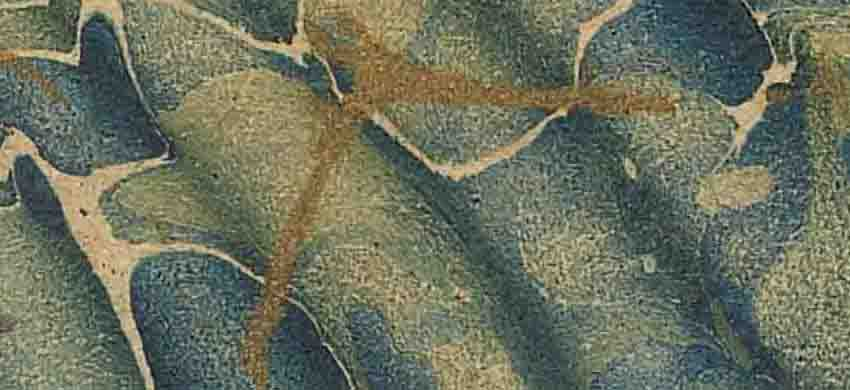
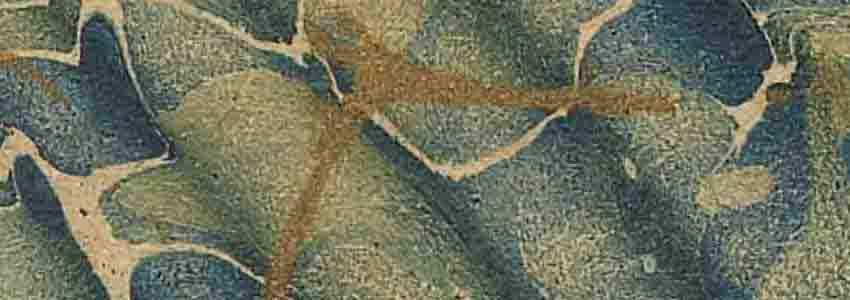
Image tweaks and cheats for home page

diff --git a/site/src/@ndlib/gatsby-theme-marble/components/Pages/IndexPage/index.js b/site/src/@ndlib/gatsby-theme-marble/components/Pages/IndexPage/index.js
@@ -12,6 +12,14 @@ import MultiColumn from 'components/Shared/MultiColumn'
 import Column from 'components/Shared/Column'
 import { useTranslation } from 'react-i18next'
 import findMetadata from 'utils/findMetadata'
+import dateImage from 'assets/images/date.jpg'
+import formatImage from 'assets/images/format.jpg'
+import campuslocationImage from 'assets/images/campus_location.jpg'
+import allImage from 'assets/images/all_items.jpg'
+import dateImageNext from 'assets/images/date.webp'
+import formatImageNext from 'assets/images/format.webp'
+import campuslocationImageNext from 'assets/images/campus_location.webp'
+import allImageNext from 'assets/images/all_items.webp'
 
 const IndexPage = ({ location }) => {
   const { t } = useTranslation()
@@ -51,10 +59,6 @@ const IndexPage = ({ location }) => {
     `,
   )
   const { nodes } = allMarbleItem
-  const dateImage = 'https://image-iiif.library.nd.edu/iiif/2/2015.045.003%2F2015_045_003-v0002/full/125,/0/default.jpg'
-  const formatImage = 'https://image-iiif.library.nd.edu/iiif/2/2017.025.667%2F2017_025_667-v0015/full/125,/0/default.jpg'
-  const campuslocationImage = 'https://image-iiif.library.nd.edu/iiif/2/MSNMN5004_EAD%2FMSN-MN_5004-04.a.150/full/125,/0/default.jpg'
-  const allImage = 'https://image-iiif.library.nd.edu/iiif/2/1976.057%2F1976_057-v0001/full/125,/0/default.jpg'
 
   return (
     <React.Fragment>
@@ -67,6 +71,7 @@ const IndexPage = ({ location }) => {
             label='Date'
             target='/browse?scrollto=date'
             image={dateImage}
+            imageNext={dateImageNext}
           />
         </Column>
         <Column>
@@ -74,6 +79,7 @@ const IndexPage = ({ location }) => {
             label='Format'
             target='/browse?scrollto=format'
             image={formatImage}
+            imageNext={formatImageNext}
           />
         </Column>
         <Column>
@@ -81,6 +87,7 @@ const IndexPage = ({ location }) => {
             label='Campus Location'
             target='/browse?scrollto=location'
             image={campuslocationImage}
+            imageNext={campuslocationImageNext}
           />
         </Column>
         <Column>
@@ -88,6 +95,7 @@ const IndexPage = ({ location }) => {
             label='All Items'
             target='/search?q='
             image={allImage}
+            imageNext={allImageNext}
           />
         </Column>
       </MultiColumn>

diff --git a/@ndlib/gatsby-theme-marble/src/components/Shared/BrowseBar/index.js b/@ndlib/gatsby-theme-marble/src/components/Shared/BrowseBar/index.js
@@ -2,22 +2,26 @@
 import PropTypes from 'prop-types'
 import { jsx } from 'theme-ui'
 import Link from 'components/Internal/Link'
-import Image from 'components/Shared/Image'
 import sx from './sx'
 
 const BrowseBar = ({
   label,
   target,
   image,
+  imageNext,
 }) => {
   return (
     <Link to={target} sx={sx.browseSection}>
-      <div sx={sx.browseImage}>
-        <Image
-          src={image || null}
-          alt=''
+      <picture sx={sx.browseImage}>
+        <source
+          srcSet={imageNext}
+          type='image/webp'
         />
-      </div>
+        <img
+          alt='label'
+          src={image}
+        />
+      </picture>
       <div sx={sx.label}>
         {label}
       </div>
@@ -29,6 +33,7 @@ BrowseBar.propTypes = {
   target: PropTypes.string,
   label: PropTypes.string.isRequired,
   image: PropTypes.string,
+  imageNext: PropTypes.string,
 }
 
 export default BrowseBar

diff --git a/site/src/@ndlib/gatsby-theme-marble/components/Layout/PageWrapper/NavigationHeader/HomeHeader/sx.js b/site/src/@ndlib/gatsby-theme-marble/components/Layout/PageWrapper/NavigationHeader/HomeHeader/sx.js
@@ -2,7 +2,7 @@ module.exports = {
   wrapper: {
     borderTop: '5px solid #D39F10',
     position: 'relative',
-    height: '380px',
+    height: ['290px', '380px', '380px'],
     overflow: 'hidden',
   },
   topBar: {
@@ -69,7 +69,7 @@ module.exports = {
     display: ['block', 'none', 'none'],
   },
   heroWrapper: {
-    height: '330px',
+    height: ['260px', '330px', '330px'],
     margin: '0 auto 0',
     padding: '1rem',
     width: '100%',
@@ -77,10 +77,11 @@ module.exports = {
     maxWidth: '1540px',
   },
   marbleLogo: {
-    width: ['480px', '440px', '520px'],
+    width: ['420px', '440px', '520px'],
+    margin: ['0 50%', '0 20px', '0 20px'],
     maxWidth: '95%',
-    top: ['100px', '110px', '80px'],
-    left: ['calc(20vw - 60px)', '0', '0'],
+    top: ['70px', '110px', '80px'],
+    left: ['calc(-50% + 40px)', '0', '0'],
     position: 'absolute',
   },
   text: {

diff --git a/@ndlib/gatsby-theme-marble/src/components/Shared/Image/index.js b/@ndlib/gatsby-theme-marble/src/components/Shared/Image/index.js
@@ -15,6 +15,7 @@ const Image = ({
   src, // src to use if no service provided
   alt, // alt text for the image
   title, // title attribute on iamge
+  loading, // image loading or lazy loading auto, lazy, eager
 }) => {
   const imageSrc = src || serviceURL(service, region, size) || noImage
   return (
@@ -32,7 +33,7 @@ const Image = ({
         alt={alt || ''}
         title={title}
         sx={sx.fallBack}
-        loading='lazy'
+        loading={loading}
       />
     </picture>
   )
@@ -45,12 +46,14 @@ Image.propTypes = {
   src: PropTypes.string,
   alt: PropTypes.string,
   title: PropTypes.string,
+  loading: PropTypes.string,
 }
 
 Image.defaultProps = {
   region: 'full',
   size: '!250,250',
   alt: 'a static image',
+  loading: 'lazy',
 }
 export default Image
 

diff --git a/@ndlib/gatsby-theme-marble/src/components/Shared/BrowseBar/test.js b/@ndlib/gatsby-theme-marble/src/components/Shared/BrowseBar/test.js
@@ -2,7 +2,6 @@ import React from 'react'
 import { mount } from 'enzyme'
 import BrowseBar from './'
 import Link from 'components/Internal/Link'
-import Image from 'components/Shared/Image'
 
 describe('BrowseBar', () => {
   console.error = jest.fn()
@@ -10,6 +9,8 @@ describe('BrowseBar', () => {
   test('mounts properly', () => {
     const wrapper = mount(<BrowseBar label='label' target='/some/path' image='/image/path' />)
     expect(wrapper.find(Link).props().to).toEqual('/some/path')
-    expect(wrapper.find(Image).exists()).toBeTruthy()
+    expect(wrapper.find('picture').exists()).toBeTruthy()
+    expect(wrapper.find('img').exists()).toBeTruthy()
+    expect(wrapper.find('source').exists()).toBeTruthy()
   })
 })
